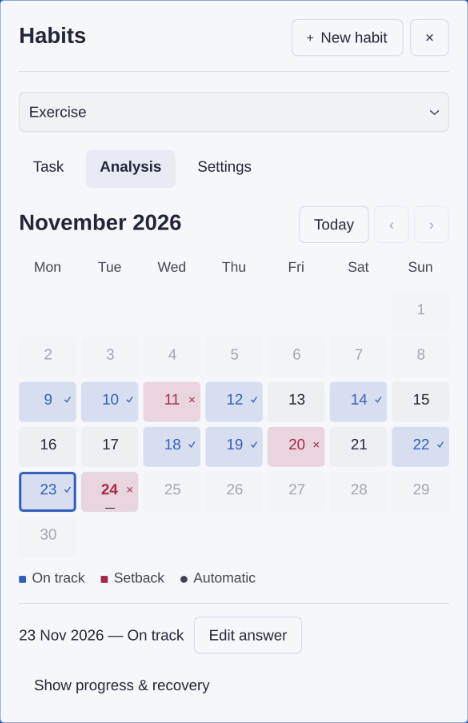
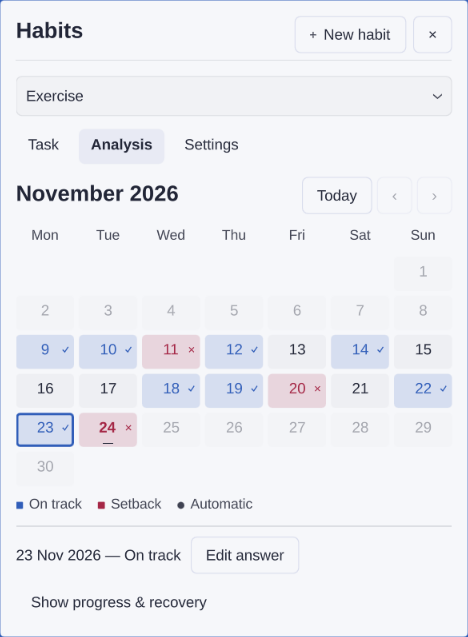
Reduce habit popup footprint while preserving readable controls

diff --git a/HabitPanel.qml b/HabitPanel.qml
@@ -254,17 +254,17 @@ Panel {
     owner: root.hostWidget || root
     bar: root.bar
     open: root.opened
-    padding: Math.min(30, Math.max(18, Math.round(contentWidth * 0.041)))
+    padding: Math.min(24, Math.max(16, Math.round(contentWidth * 0.034)))
     focusTarget: panel.loadedContent
-    contentWidth: panel.fittedContentWidth(Math.max(820, Style.space(960)))
-    contentHeight: panel.fittedContentHeight(panel.loadedContentHeight || 390)
+    contentWidth: panel.fittedContentWidth(Math.max(560, Style.space(650)))
+    contentHeight: panel.fittedContentHeight(panel.loadedContentHeight || 340)
 
     content: Item {
       id: content
       property alias scrollArea: detailScroll
-      readonly property bool wide: width >= Math.max(630, Style.space(690))
+      readonly property bool wide: width >= Math.max(500, Style.space(580))
       anchors.fill: parent
-      implicitHeight: Math.max(360, bodyTop.y + detailColumn.implicitHeight)
+      implicitHeight: Math.max(305, bodyTop.y + detailColumn.implicitHeight)
       focus: true
       Keys.onEscapePressed: {
         if (root.datePickerOpen) root.datePickerOpen = false
@@ -275,7 +275,7 @@ Panel {
       Item {
         id: header
         width: parent.width
-        height: Math.max(40, Style.space(44))
+        height: Math.max(36, Style.space(40))
         Label {
           anchors.left: parent.left
           anchors.verticalCenter: parent.verticalCenter
@@ -297,10 +297,10 @@ Panel {
       PanelSeparator {
         id: headerRule
         width: parent.width
-        y: header.height + Style.space(14)
+        y: header.height + Style.space(10)
         foreground: root.foreground
       }
-      Item { id: bodyTop; y: headerRule.y + headerRule.height + Math.max(20, Style.space(24)) }
+      Item { id: bodyTop; y: headerRule.y + headerRule.height + Math.max(14, Style.space(18)) }
 
       // The habit list is separate from the detail canvas, never another
       // stack of statistic cards competing with the selected habit.
@@ -310,7 +310,7 @@ Panel {
         anchors.top: bodyTop.top
         anchors.bottom: parent.bottom
         anchors.left: parent.left
-        width: Math.max(154, Style.space(180))
+        width: Math.max(114, Style.space(132))
         Label {
           id: sidebarTitle
           text: root.t("yourHabits")
@@ -321,7 +321,7 @@ Panel {
         Flickable {
           objectName: "habitsScroll"
           anchors.top: sidebarTitle.bottom
-          anchors.topMargin: Math.max(12, Style.space(16))
+          anchors.topMargin: Style.space(10)
           anchors.bottom: parent.bottom
           width: parent.width
           contentWidth: width
@@ -331,14 +331,14 @@ Panel {
           Column {
             id: habitList
             width: parent.width
-            spacing: Style.space(8)
+            spacing: Style.space(5)
             Repeater {
               model: root.trackerState.habits
               Action {
                 id: habitButton
                 required property var modelData
                 width: habitList.width
-                height: Math.max(48, Style.space(52))
+                height: Math.max(40, Style.space(45))
                 text: ""
                 Accessible.name: root.t("habitStatus").arg(modelData.name).arg(root.t(root.todayStatus(modelData)))
                  selected: root.habit && root.habit.id === modelData.id && !root.creating
@@ -374,7 +374,7 @@ Panel {
       Rectangle {
         visible: content.wide
         anchors.left: sidebar.right
-        anchors.leftMargin: Style.space(18)
+        anchors.leftMargin: Style.space(12)
         anchors.top: sidebar.top
         anchors.bottom: parent.bottom
         width: 1
@@ -386,7 +386,7 @@ Panel {
         objectName: "habitsScroll"
         anchors.top: bodyTop.top
         anchors.left: content.wide ? sidebar.right : parent.left
-        anchors.leftMargin: content.wide ? Style.space(42) : 0
+        anchors.leftMargin: content.wide ? Style.space(28) : 0
         anchors.right: parent.right
         anchors.bottom: parent.bottom
         contentWidth: width
@@ -399,7 +399,7 @@ Panel {
         Column {
           id: detailColumn
           width: detailScroll.width
-          spacing: Math.max(20, Style.space(24))
+          spacing: Math.max(16, Style.space(19))
           Label {
             visible: text !== ""
             width: parent.width
@@ -427,7 +427,7 @@ Panel {
           Column {
             visible: root.habit !== null && !root.creating
             width: parent.width
-            spacing: Math.max(18, Style.space(22))
+            spacing: Math.max(13, Style.space(16))
             QQC.ComboBox {
               id: habitPicker
               objectName: "habitPicker"
@@ -479,7 +479,7 @@ Panel {
                   width: parent.width
                   text: root.habit ? root.habit.name : ""
                   wrapMode: Text.Wrap
-                  font.pixelSize: Math.max(27, Style.font.display)
+                  font.pixelSize: Math.max(24, Style.font.display)
                   font.bold: true
                 }
               }
@@ -493,8 +493,8 @@ Panel {
                   required property string modelData
                   objectName: modelData + "Tab"
                   text: ""
-                  width: tabLabel.implicitWidth + 2 * Math.max(14, Style.space(16))
-                  height: Math.max(38, Style.space(42))
+                  width: tabLabel.implicitWidth + 2 * Math.max(12, Style.space(14))
+                  height: Math.max(35, Style.space(40))
                   Accessible.role: Accessible.PageTab
                   Accessible.name: root.t(modelData)
                   Accessible.selected: selected
@@ -517,7 +517,7 @@ Panel {
               visible: root.tab === "analysis"
               objectName: "habitAnalysis"
               width: parent.width
-              spacing: Math.max(12, Style.space(15))
+              spacing: Math.max(10, Style.space(12))
               function editDay() {
                 root.setTab("task", true)
                 Qt.callLater(function() { if (root.tab === "task") checkIn.focusAnswer() })
@@ -593,7 +593,7 @@ Panel {
                     readonly property bool failure: modelData.state === "failure"
                     readonly property color tone: success ? root.accent : failure ? root.urgent : root.foreground
                     width: (calendar.width - calendar.spacing * 6) / 7
-                    height: Math.max(40, Style.space(47))
+                    height: Math.max(34, Style.space(40))
                     radius: Style.cornerRadius > 0 ? Math.min(Style.cornerRadius, Style.space(5)) : 0
                     opacity: !modelData.inMonth ? 0 : modelData.source === "before" || modelData.source === "future" ? 0.38 : 1
                     color: success || failure ? root.tint(tone, 0.16)
@@ -756,7 +756,7 @@ Panel {
           Column {
             visible: root.editing
             width: parent.width
-            spacing: Math.max(22, Style.space(25))
+            spacing: Math.max(17, Style.space(20))
             Label { visible: root.creating; text: root.t("newHabit"); font.pixelSize: root.headingSize; font.bold: true }
             FieldGroup {
               width: parent.width
@@ -935,7 +935,7 @@ Panel {
   }
   component CheckIn: Column {
     objectName: "dailyCheckin"
-    spacing: Math.max(16, Style.space(19))
+    spacing: Math.max(12, Style.space(15))
     function focusAnswer() {
       var answer = answerButtons.itemAt(root.record.value === "no" ? 1 : 0)
       if (answer && answer.enabled) answer.forceActiveFocus()
@@ -966,7 +966,7 @@ Panel {
       width: parent.width
       text: root.habit ? root.habit.question : ""
       wrapMode: Text.Wrap
-      font.pixelSize: Math.max(28, Style.font.displayLarge + 4)
+      font.pixelSize: Math.max(24, Style.font.displayLarge + 1)
       font.bold: true
       lineHeight: 1.12
     }
@@ -979,7 +979,7 @@ Panel {
     }
     Row {
       id: answers
-      width: Math.min(parent.width, Math.max(360, Style.space(425)))
+      width: Math.min(parent.width, Math.max(290, Style.space(340)))
       spacing: Math.max(12, Style.space(14))
       Repeater {
         id: answerButtons
@@ -988,7 +988,7 @@ Panel {
           required property string modelData
           objectName: "answer-" + modelData
           width: (answers.width - answers.spacing) / 2
-          height: Math.max(54, Style.space(59))
+          height: Math.max(46, Style.space(51))
           fontSize: Math.max(18, Style.font.subtitle)
           iconText: selected ? "✓" : ""
           text: root.t(modelData)

diff --git a/docs/release.md b/docs/release.md
@@ -1,4 +1,8 @@
-# 1.3.0 — A focused daily check-in
+# 1.3.1 — Smaller popup
+
+The popup is about one-third narrower at the previous default size. Padding and row heights are smaller, while body text and the three-tab layout are unchanged.
+
+## 1.3.0 — A focused daily check-in
 
 **Task** shows the question and large Yes/No controls. The calendar is in **Analysis**. Choose a date there to edit its answer in Task, or expand **Show progress & recovery** for the report. The popup uses larger proportional type and adapts its height to the active view.
 
